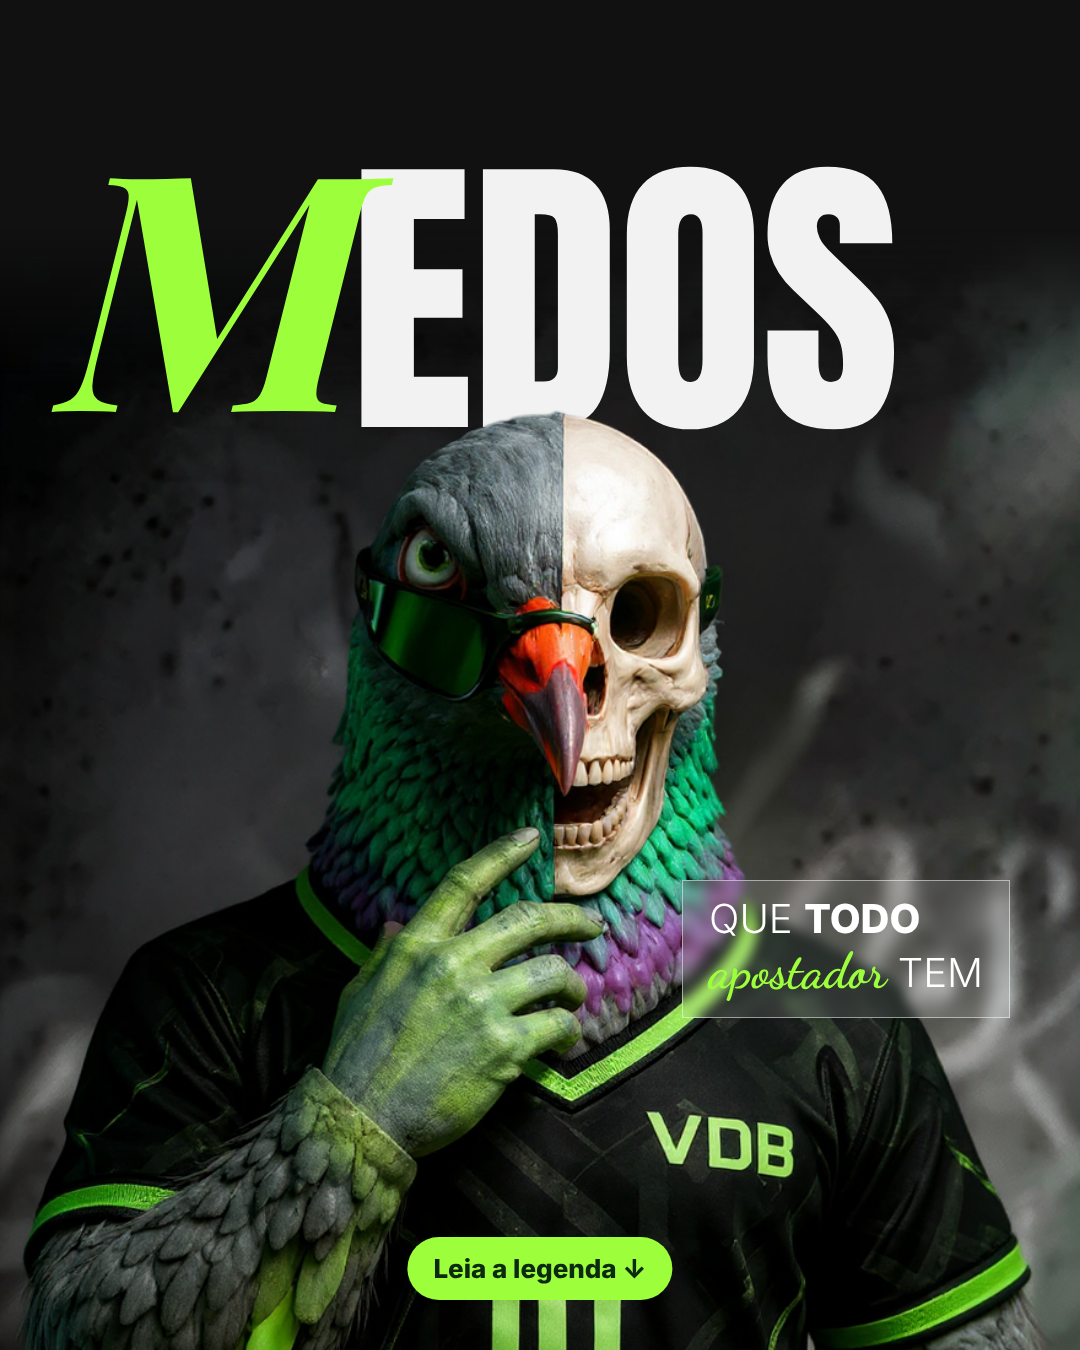
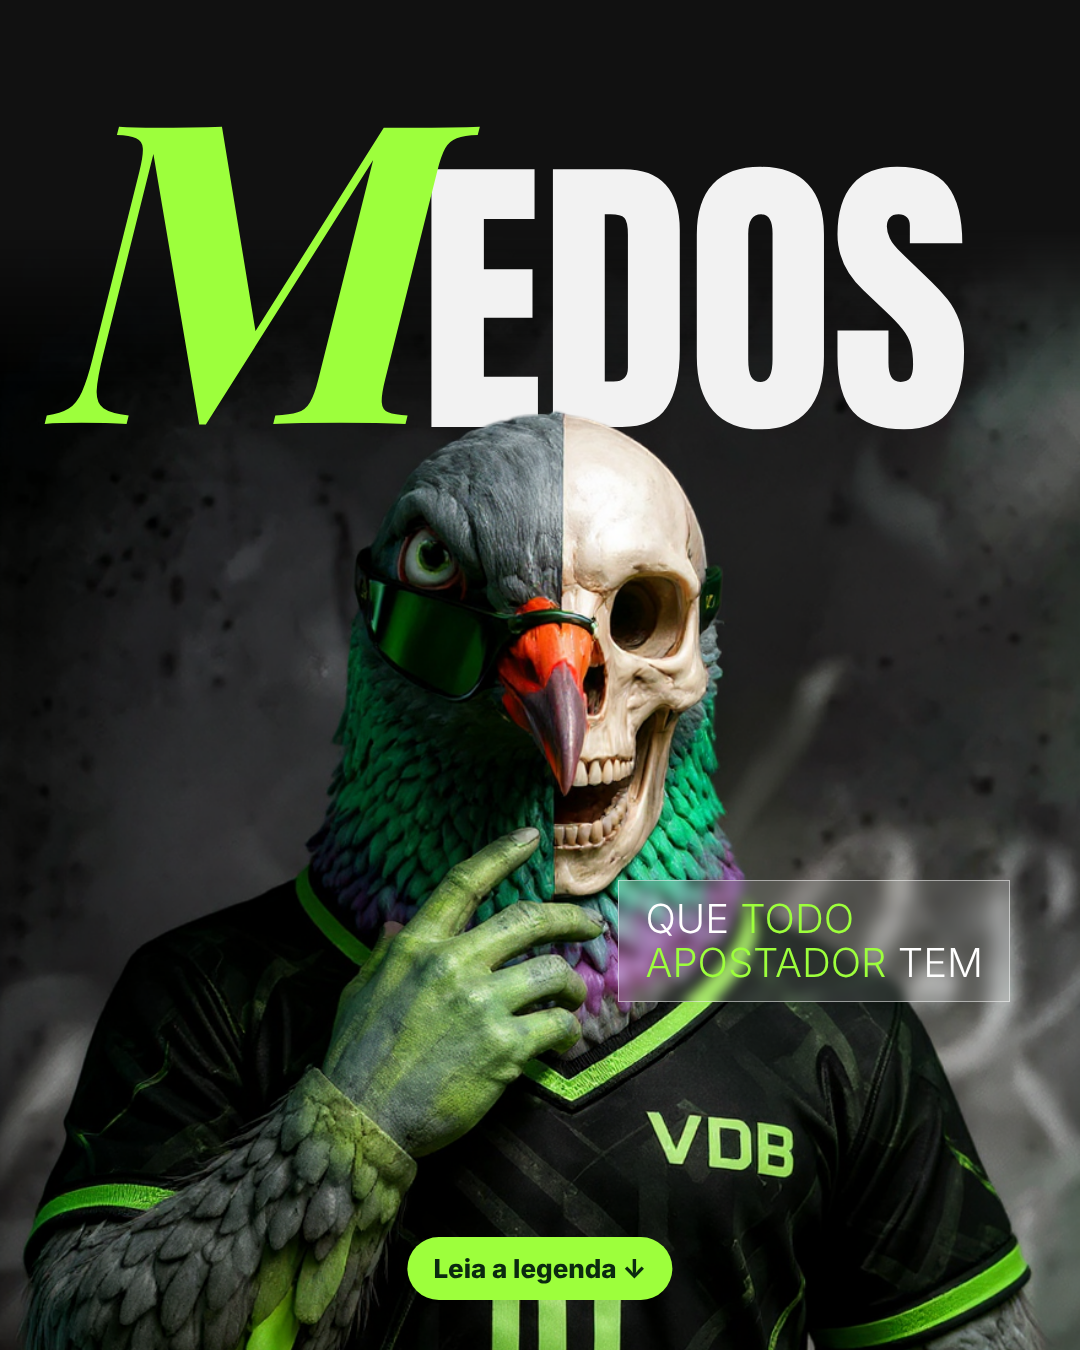
Feed estático: 3ª rodada 24, 25, 28
Claude-Session: https://claude.ai/code/session_017mkQW4f9RfZB1iSbiGkvms

Changed region(s): [[0.0306, 0.0933, 0.9167, 0.3422], [0.55, 0.6533, 0.9167, 0.7778]]

diff --git a/banco/tpl-estatico/layout-24.html b/banco/tpl-estatico/layout-24.html
@@ -4,7 +4,7 @@
 body{margin:0}#s{width:1080px;height:1350px;position:relative;overflow:hidden;background:#e9eae8}
 .bg{position:absolute;inset:0;width:100%;height:100%;object-fit:cover}
 .tp{position:absolute;width:1800px;background:#18e0ff;display:flex;align-items:center;overflow:hidden;white-space:nowrap;box-shadow:0 8px 24px rgba(0,0,0,.25);
- background-image:repeating-linear-gradient(135deg,transparent 0 380px,#0b0b0b 380px 440px)}
+ background-image:repeating-linear-gradient(135deg,transparent 0 380px,#0b0b0b 380px 390px)}
 .tp span{font-family:A;color:#0b0b0b;letter-spacing:1px;padding-left:30px}
 .cta{position:absolute;left:50%;transform:translateX(-50%);bottom:50px;font:800 26px I8;padding:16px 26px;border-radius:40px;white-space:nowrap;z-index:9;background:#0b0b0b;color:#fff}
 </style></head><body><div id=s><img class=bg src="c24d.png" style="z-index:0"><div class=tp style="top:80px;left:-300px;transform:rotate(-22deg);height:60px;z-index:1"><i></i><span style="font-size:40px">ACESSO NEGADO&nbsp;&nbsp;✕&nbsp;&nbsp;ACESSO NEGADO&nbsp;&nbsp;✕&nbsp;&nbsp;ACESSO NEGADO&nbsp;&nbsp;✕&nbsp;&nbsp;ACESSO NEGADO&nbsp;&nbsp;✕&nbsp;&nbsp;ACESSO NEGADO&nbsp;&nbsp;✕&nbsp;&nbsp;ACESSO NEGADO&nbsp;&nbsp;✕&nbsp;&nbsp;ACESSO NEGADO&nbsp;&nbsp;✕&nbsp;&nbsp;ACESSO NEGADO&nbsp;&nbsp;✕&nbsp;&nbsp;</span></div><div class=tp style="top:330px;left:-200px;transform:rotate(18deg);height:70px;z-index:1"><i></i><span style="font-size:46px">ACESSO NEGADO&nbsp;&nbsp;✕&nbsp;&nbsp;ACESSO NEGADO&nbsp;&nbsp;✕&nbsp;&nbsp;ACESSO NEGADO&nbsp;&nbsp;✕&nbsp;&nbsp;ACESSO NEGADO&nbsp;&nbsp;✕&nbsp;&nbsp;ACESSO NEGADO&nbsp;&nbsp;✕&nbsp;&nbsp;ACESSO NEGADO&nbsp;&nbsp;✕&nbsp;&nbsp;ACESSO NEGADO&nbsp;&nbsp;✕&nbsp;&nbsp;ACESSO NEGADO&nbsp;&nbsp;✕&nbsp;&nbsp;</span></div><div class=tp style="top:620px;left:-300px;transform:rotate(-12deg);height:58px;z-index:1"><i></i><span style="font-size:38px">ACESSO NEGADO&nbsp;&nbsp;✕&nbsp;&nbsp;ACESSO NEGADO&nbsp;&nbsp;✕&nbsp;&nbsp;ACESSO NEGADO&nbsp;&nbsp;✕&nbsp;&nbsp;ACESSO NEGADO&nbsp;&nbsp;✕&nbsp;&nbsp;ACESSO NEGADO&nbsp;&nbsp;✕&nbsp;&nbsp;ACESSO NEGADO&nbsp;&nbsp;✕&nbsp;&nbsp;ACESSO NEGADO&nbsp;&nbsp;✕&nbsp;&nbsp;ACESSO NEGADO&nbsp;&nbsp;✕&nbsp;&nbsp;</span></div><img class=bg src="c24d-cut.png" style="z-index:3"><div class=tp style="top:1000px;left:-260px;transform:rotate(12deg);height:130px;z-index:5"><i></i><span style="font-size:96px">ACESSO NEGADO&nbsp;&nbsp;✕&nbsp;&nbsp;ACESSO NEGADO&nbsp;&nbsp;✕&nbsp;&nbsp;ACESSO NEGADO&nbsp;&nbsp;✕&nbsp;&nbsp;ACESSO NEGADO&nbsp;&nbsp;✕&nbsp;&nbsp;ACESSO NEGADO&nbsp;&nbsp;✕&nbsp;&nbsp;ACESSO NEGADO&nbsp;&nbsp;✕&nbsp;&nbsp;ACESSO NEGADO&nbsp;&nbsp;✕&nbsp;&nbsp;ACESSO NEGADO&nbsp;&nbsp;✕&nbsp;&nbsp;</span></div>

diff --git a/banco/tpl-estatico/layout-28.html b/banco/tpl-estatico/layout-28.html
@@ -11,10 +11,10 @@ body{margin:0}#s{width:1080px;height:1350px;position:relative;overflow:hidden;ba
 .bg{position:absolute;inset:0;width:100%;height:100%;object-fit:cover}
 .cta{position:absolute;left:50%;transform:translateX(-50%);bottom:50px;font:800 26px I8;padding:16px 26px;border-radius:40px;white-space:nowrap;z-index:9}
 
-.m{position:absolute;left:40px;top:110px;font:700 italic 330px/1 PF;color:#9dff3c;z-index:3}
-.e{position:absolute;left:350px;top:150px;font:400 300px/1 A;color:#f2f2f2;letter-spacing:-2px}
+.m{position:absolute;left:30px;top:40px;font:700 italic 420px/1 PF;color:#9dff3c;z-index:3}
+.e{position:absolute;left:420px;top:150px;font:400 300px/1 A;color:#f2f2f2;letter-spacing:-2px}
 .box{position:absolute;right:70px;top:880px;padding:16px 26px;border:1px solid rgba(255,255,255,.5);background:rgba(255,255,255,.12);backdrop-filter:blur(6px);color:#fff;font:300 40px/1.1 IL;z-index:3}
-.box b{font-weight:800;font-family:I8}.box i{font:700 50px S;color:#9dff3c;font-style:normal}
+.box b{font-weight:300;color:#9dff3c}.box i{font:700 50px S;color:#9dff3c;font-style:normal}
 .cta{background:#9dff3c;color:#0b2a10}
 </style></head><body><div id=s><img src="c28.png" style="position:absolute;left:0;top:230px;width:1080px;-webkit-mask-image:linear-gradient(transparent,#000 160px)"><div class=e>EDOS</div><img src="c28-cut.png" style="position:absolute;left:0;top:230px;width:1080px"><div class=m>M</div>
-<div class=box>QUE <b>TODO</b><br><i>apostador</i> TEM</div><div class=cta>Leia a legenda ↓</div></div></body></html>
+<div class=box>QUE <b>TODO<br>APOSTADOR</b> TEM</div><div class=cta>Leia a legenda ↓</div></div></body></html>

diff --git a/banco/tpl-estatico/layout-25.html b/banco/tpl-estatico/layout-25.html
@@ -16,9 +16,9 @@ body{margin:0}#s{width:1080px;height:1350px;position:relative;overflow:hidden;ba
 .t b{font-weight:400;color:#39ff14;background:#0b0b0b;padding:0 14px;-webkit-box-decoration-break:clone}
 .tg{position:absolute;left:70px;top:1215px;display:flex;align-items:center;gap:22px;font:300 46px IL;color:#4d4945}
 .sw{width:110px;height:56px;border-radius:30px;background:#1fae35;position:relative}.sw:after{content:'';position:absolute;right:8px;top:8px;width:40px;height:40px;border-radius:50%;background:#fff;box-shadow:inset 0 0 0 9px #fff,inset 0 0 0 14px #1fae35}
-.sc{position:absolute;left:300px;top:60px;font:700 52px/1.1 CA;color:#111;transform:rotate(-8deg);text-align:right}
+.sc{position:absolute;left:285px;top:150px;font:700 46px/1.1 CA;color:#111;transform:rotate(-8deg);text-align:right}
 .cta{background:#111;color:#fff;left:auto;right:60px;transform:none;bottom:70px}
 </style></head><body><div id=s><img src="c25d.png" style="position:absolute;left:220px;top:-90px;width:1000px;-webkit-mask-image:radial-gradient(ellipse 60% 55% at 50% 50%,#000 70%,transparent 100%)">
-<div class=sc>só mais um<br>ajustezinho...</div>
+<div style="position:absolute;left:330px;top:430px;width:520px;height:620px;border-radius:50%;background:radial-gradient(closest-side,rgba(120,255,60,.75),rgba(80,255,40,.25) 55%,rgba(80,255,40,0));mix-blend-mode:screen;filter:blur(10px)"></div><div class=sc>só mais um<br>ajustezinho...</div>
 <div class=t>Talvez você seja um<br>empreendedor que<br><b>nunca desliga.</b></div>
 <div class=tg><div class=sw></div>Modo descanso</div><div class=cta>Leia a legenda ↓</div></div></body></html>

diff --git a/conhecimento/agentes/designer/22-feed-estatico-quebra-de-padrao.md b/conhecimento/agentes/designer/22-feed-estatico-quebra-de-padrao.md
@@ -104,3 +104,4 @@ Arquivos em `banco/tpl-estatico/` (`ref-N`, `layout-N.html`, `teste-N.png`).
 - **28 · Meio rosto caveira** (Vivendo de Bet): metade do rosto vira caveira com glitch; título "M" manuscrito + "EDOS" condensado atrás da cabeça; caixa de vidro com o apoio.
 - Ajustes do dono (18/11/2026): **26 DESCARTADA** (ficou bagunçada mesmo copiada certo: palavras espalhadas demais). 24: as fitas são FAIXAS de verdade (grossas e finas), todas com o texto repetido (ex.: "ACESSO NEGADO ✕"), umas atrás e outras na frente do mascote, nunca no rosto. 25: o mascote precisa ser GRANDE e evidente; destaque do título em verde neon sobre marca-texto preto (verde claro não lê no bege). 27: o texto não pode perder palavra ("O SEGREDO DOS VÍDEOS / VIRAIS"); roupa do mascote igual à dele (calça social preta, nada de jeans da referência). 28: letra manuscrita do título alinhada na altura das outras letras; a ideia de TIRAR A MÁSCARA tem que ficar clara.
 - 2ª rodada: 24 com 4 fitas só (como a referência); 25 mascote sentado firme e centralizado na lâmpada, frase manuscrita perto da cabeça como fala; 27 aprovada; 28 M encostado no EDOS (não por cima). Máscara saindo do rosto: a IA não consegue fazer (6 tentativas), pendente de decisão do dono.
+- 3ª rodada: 24 listras pretas das faixas BEM finas; 25 luz da lâmpada mais forte (brilho verde) e fala perto do rosto; 28 M maior que o resto da palavra e encostado; caixa com UMA fonte só, destaque só em "TODO APOSTADOR" na cor da marca.
